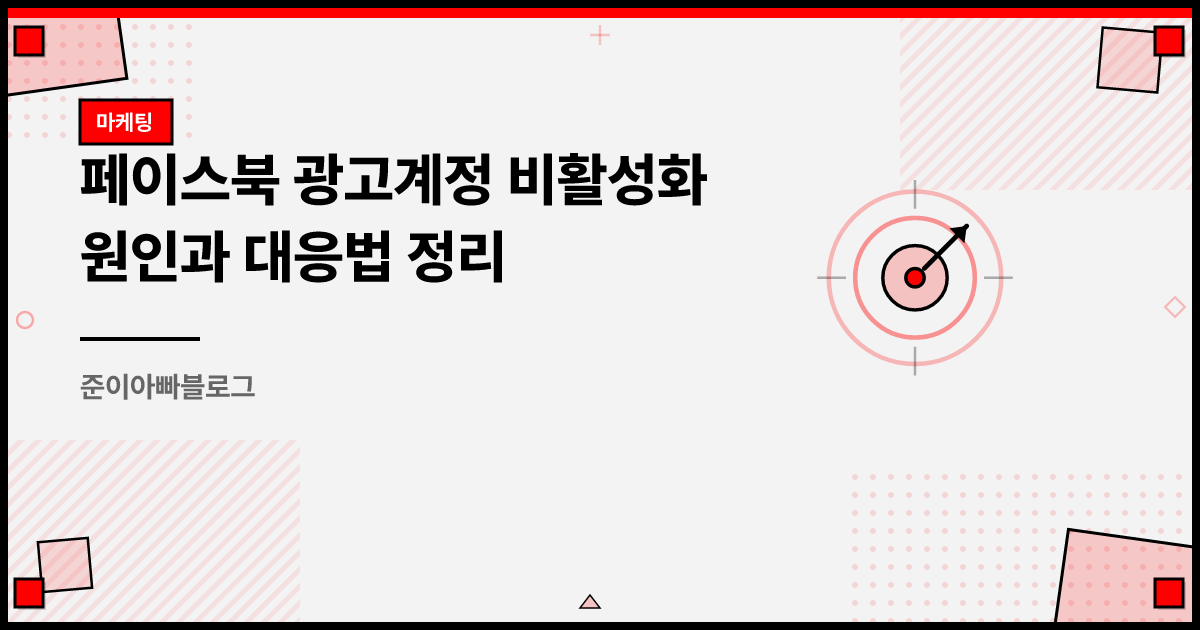
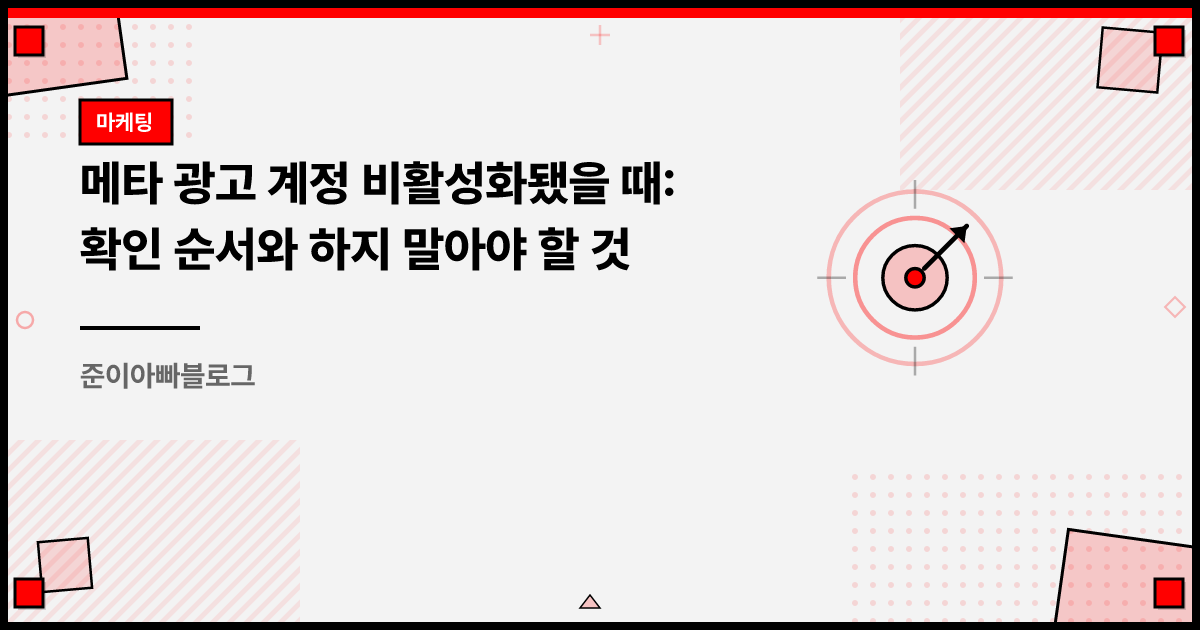
fix(seo): 메타 광고계정 비활성화 글 제목을 메타 표기 상황형으로 교체
SERP 실측 결과 기존 제목이 겨냥한 "페이스북 광고계정 비활성화"는
Meta 공식 도움말 3개가 상위를 점유해 이 사이트가 8위 안에 들지
못했다. 같은 주제를 "메타" 표기로 검색하면 공식 문서가 1개로 줄고
커뮤니티 스레드 3개가 상단에 오며 이 사이트는 이미 7위였다.
GSC 실제 검색어가 전부 "광고 계정" 띄어쓰기인 점도 반영했다.

사이트맵 lastmod 갱신을 위해 updatedAt을 올렸다.

Claude-Session: https://claude.ai/code/session_01XgTFoMqtWEMGEN6AniBTjY

diff --git a/content/insights/facebook-ad-account-disabled-guide.md b/content/insights/facebook-ad-account-disabled-guide.md
@@ -1,6 +1,6 @@
 ---
 slug: facebook-ad-account-disabled-guide
-title: 페이스북 광고계정 비활성화 원인과 대응법 정리
+title: '메타 광고 계정 비활성화됐을 때: 확인 순서와 하지 말아야 할 것'
 excerpt: >-
   메타(페이스북, 인스타그램) 광고계정이 갑자기 비활성화됐을 때 확인할 것들을 정리했습니다. 어디가 막혔는지 확인하는 법, 검토 요청 절차와
   180일 시한, 실수로 걸리기 쉬운 광고 규정, 계정 공유와 연쇄 차단, 미리 해두면 좋은 예방 조치까지. 공식 문서와 국내외 커뮤니티
@@ -11,7 +11,7 @@ tags:
   - 광고
   - 마케팅 실무
 publishedAt: '2026-07-18T10:00:00.000Z'
-updatedAt: '2026-07-23T00:00:00.000Z'
+updatedAt: '2026-08-02T00:00:00.000Z'
 highlights:
   - >-
     광고계정이 막혔을 때 가장 먼저 할 일은 이의신청이 아니라, 소재, 광고계정, 페이지, 비즈니스 계정 중 어디가 막혔는지 확인하는
@@ -30,12 +30,12 @@ quiz:
     explanation: >-
       메타는 제재를 회피하려고 만든 계정을 같은 소유자로 판정해 함께 비활성화한다고 공식 정책에 명시하고 있습니다. 막힌 직후 새 계정으로
       광고를 재개하면 우회 행위로 판정되어, 새 계정은 물론 관련 계정까지 연달아 막힐 수 있습니다.
-metaTitle: 페이스북 광고계정 비활성화 원인과 대응법 정리
+metaTitle: '페이스북 광고 계정 정지 대응: 검토 요청 절차와 180일 시한'
 metaDescription: >-
   메타(페이스북, 인스타그램) 광고계정 비활성화의 원인과 대응 순서를 정리했습니다. 검토 요청 절차, 180일 시한, 실수로 걸리기 쉬운 광고
   규정, 계정 공유와 연쇄 차단, 예방 조치까지 공식 문서와 커뮤니티 사례 기준으로 담았습니다.
 ogImage: /og/facebook-ad-account-disabled-guide.png
-ogTitle: 페이스북 광고계정 비활성화 원인과 대응법 정리
+ogTitle: '메타 광고 계정 비활성화됐을 때: 확인 순서와 하지 말아야 할 것'
 ogDescription: >-
   광고계정이 갑자기 막혔을 때 확인할 것들. 어디가 막혔는지 보는 법, 검토 요청과 180일 시한, 실수로 걸리기 쉬운 규정, 연쇄 차단과
   예방 조치까지 정리했습니다.
